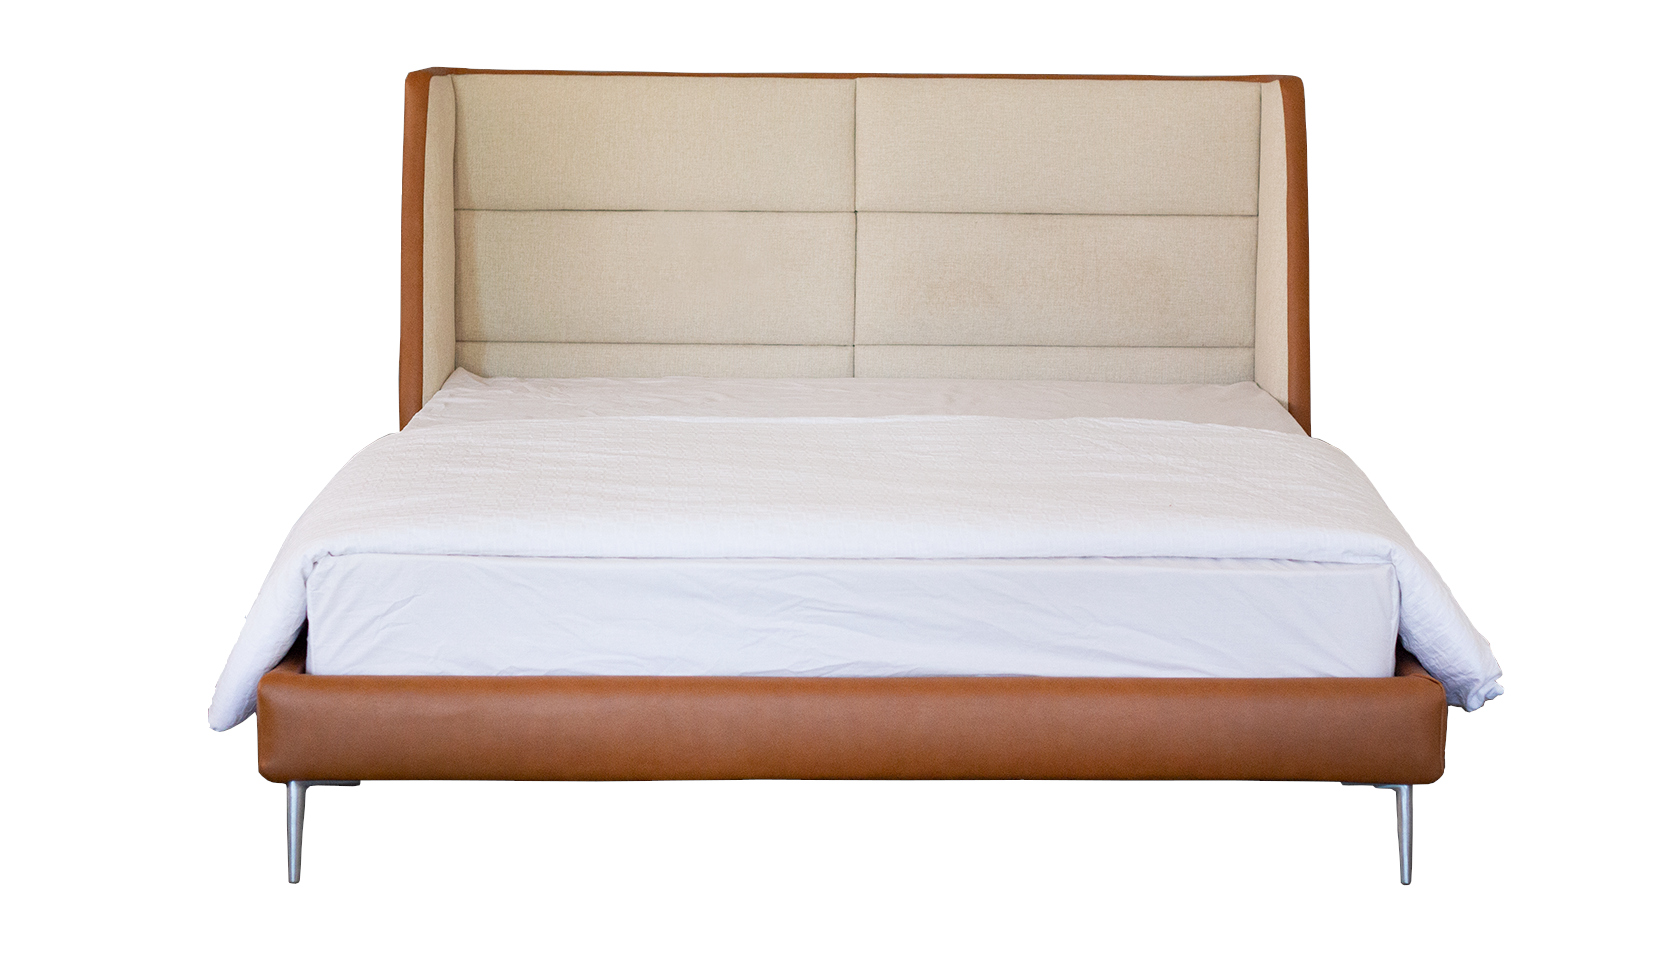
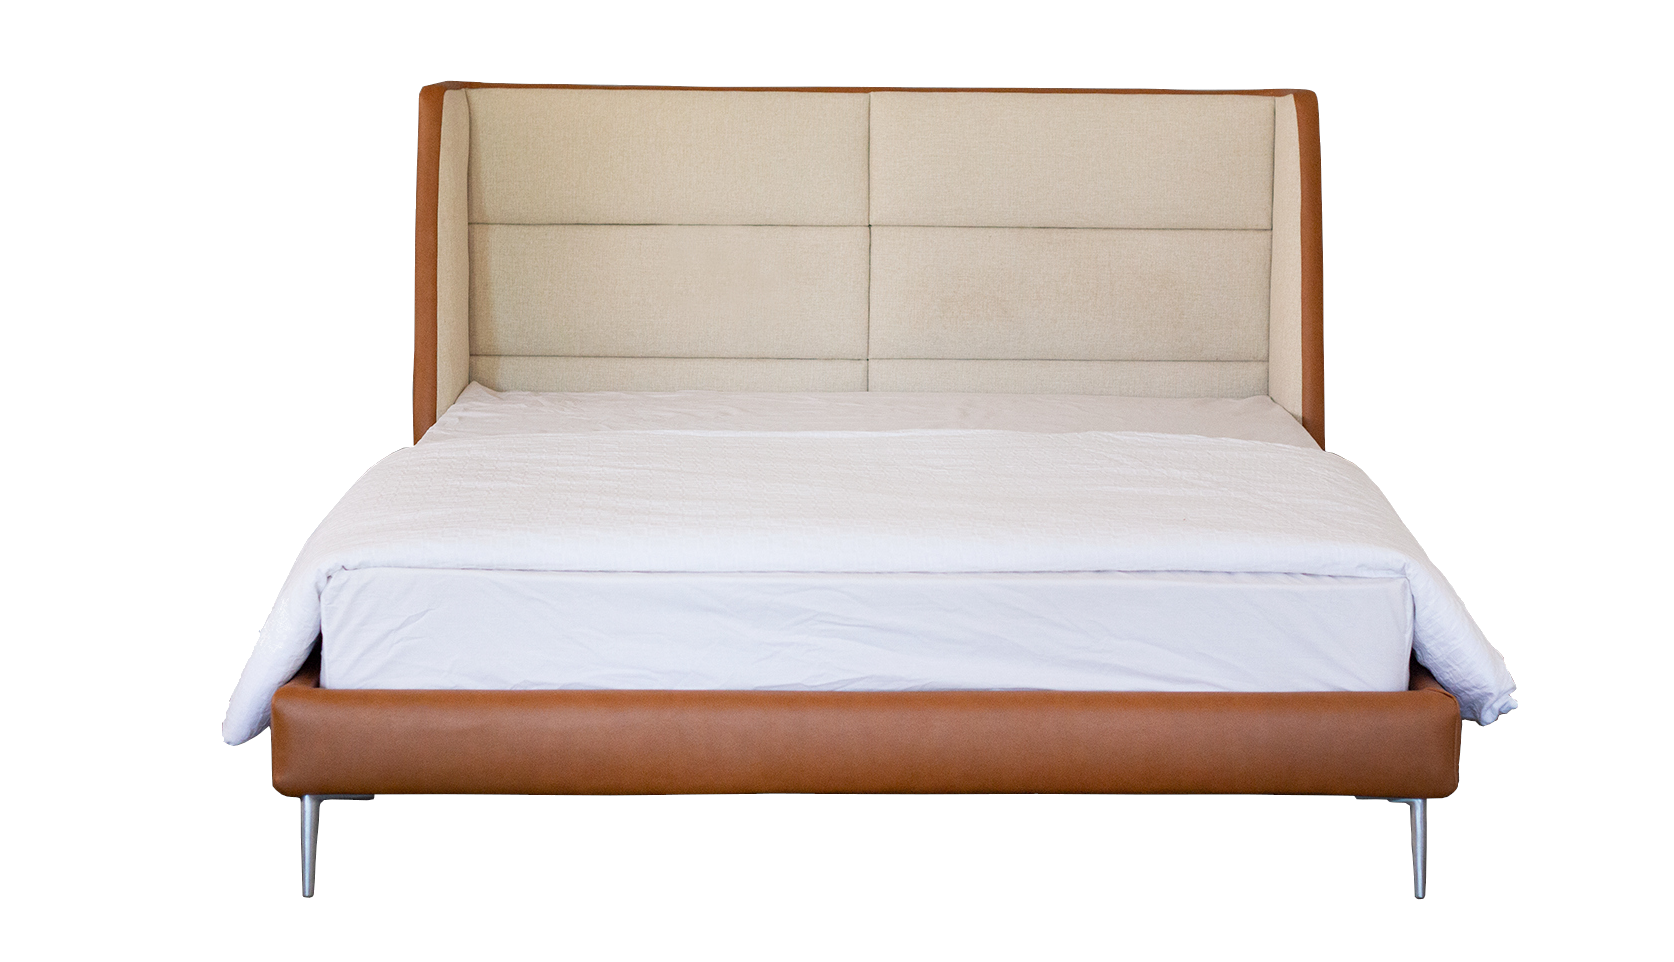
🔨 changed the flex for contact-us, fixed typo for about-us and removed white background for BE01.png

diff --git a/pages/contact-us.tsx b/pages/contact-us.tsx
@@ -6,7 +6,9 @@ import ContactForm from '../components/ContactForm/ContactForm'
 import Map from '../components/Map/Map'
 
 export default function ContactUs() {
+
   const [visible, setVisibility] = useState<boolean>(false)
+
   const handleFormVisbility = () => {
     setVisibility(!visible)
   }
@@ -16,44 +18,42 @@ export default function ContactUs() {
       <h1 className={utils.title}>
         Contact Us
       </h1>
-      <div className={styles.mapDescription}>
-        <div className={visible ? styles.form : styles.noForm}>
-          <h2 className={`${styles.titleH2}`}>
-            Fill out form below!
-          </h2>
-          <ContactForm isCancel={handleFormVisbility}/>
-        </div>
-        <div className={!visible ? styles.description : styles.noForm}>
-          <h2 className={`${styles.titleH2}`}>
-            Location
-          </h2>
-          <p className={`${styles.fontDescription}`}>
-             865 Punchbowl Road, Punchbowl, NSW, 2196, Australia
-            <br/>
-          </p>
-          <h2 className={`${styles.titleH2}`}>
-           Phone number
-          </h2>
-          <p className={`${styles.fontDescription}`}>
-            0401119989
-          </p>
-          <h2 className={`${styles.titleH2}`}>
-             Opening hours
-          </h2>
-          <p className={`${styles.fontDescription}`}>
-            Monday - Friday: 9AM to 5PM
-            <br/>
-            Saturday: 10AM - 4PM
-            <br/>
-            Sunday: Closed
-          </p>
-          <button className={styles.button}
-            onClick={handleFormVisbility}>
-            Get in touch
-          </button>
-        </div>
-        <Map />
-      </div>
+			<div className={visible ? styles.form : styles.noForm}>
+				<h2 className={`${styles.titleH2}`}>
+					Fill out form below!
+				</h2>
+				<ContactForm isCancel={handleFormVisbility}/>
+			</div>
+			<div className={!visible ? styles.description : styles.noForm}>
+				<h2 className={`${styles.titleH2}`}>
+					Location
+				</h2>
+				<p className={`${styles.fontDescription}`}>
+					 865 Punchbowl Road, Punchbowl, NSW, 2196, Australia
+					<br/>
+				</p>
+				<h2 className={`${styles.titleH2}`}>
+				 Phone number
+				</h2>
+				<p className={`${styles.fontDescription}`}>
+					0401119989
+				</p>
+				<h2 className={`${styles.titleH2}`}>
+					 Opening hours
+				</h2>
+				<p className={`${styles.fontDescription}`}>
+					Monday - Friday: 9AM to 5PM
+					<br/>
+					Saturday: 10AM - 4PM
+					<br/>
+					Sunday: Closed
+				</p>
+				<button className={styles.button}
+					onClick={handleFormVisbility}>
+					Get in touch
+				</button>
+			</div>
+			<Map />
     </Layout>
   )
 }

diff --git a/pages/about-us.tsx b/pages/about-us.tsx
@@ -8,9 +8,9 @@ export default function AboutUs() {
         About Us
       </h1>
       <p className={utils.description}>
-        We are Australian kitchen, furniture and vanity manufacturers based in Sydney, NSW.
-      </p>
-      <p className={utils.description}>
+        We are an Australian kitchen, furniture and vanity manufacturers based in Sydney, NSW.
+				<br />
+				<br />
         We provide high-quality, custom-made designs to suit your living space.
       </p>
     </Layout>

diff --git a/pages/contact-us.module.scss b/pages/contact-us.module.scss
@@ -19,6 +19,7 @@
 .description {
   height: 100%;
   width: 100%;
+	margin-bottom: 2em; 
 }
 
 .fontDescription {
